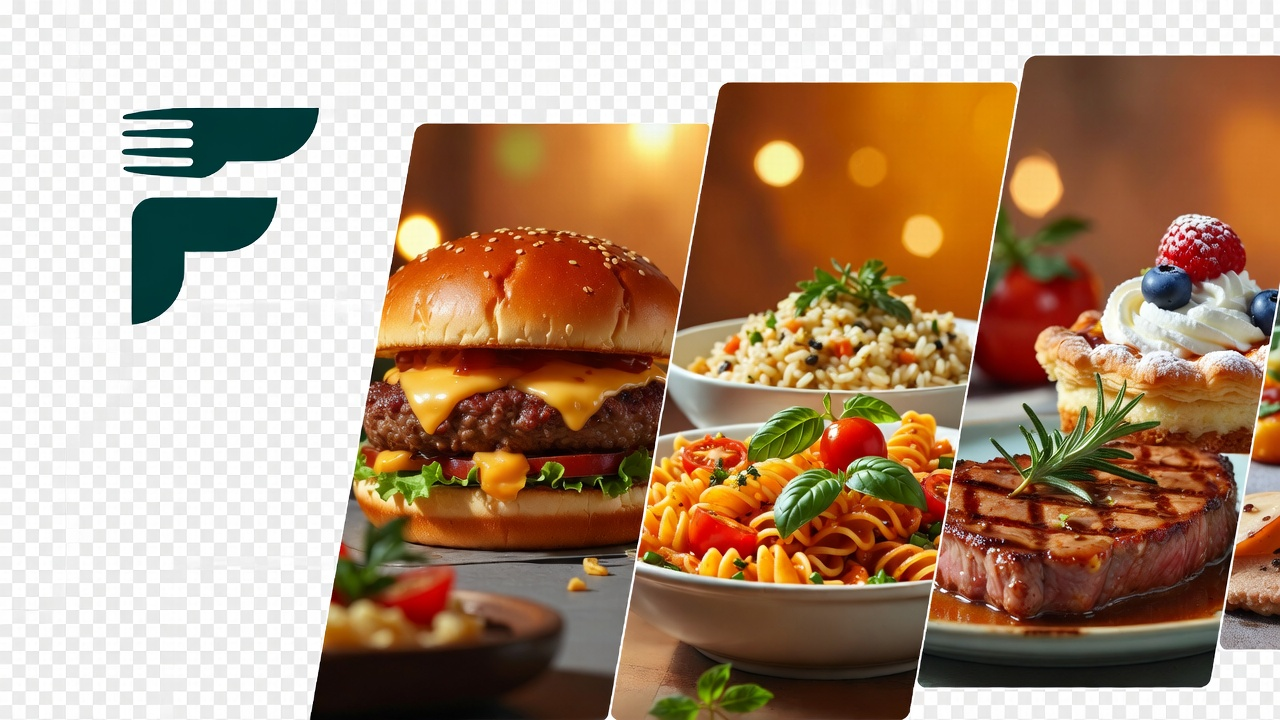
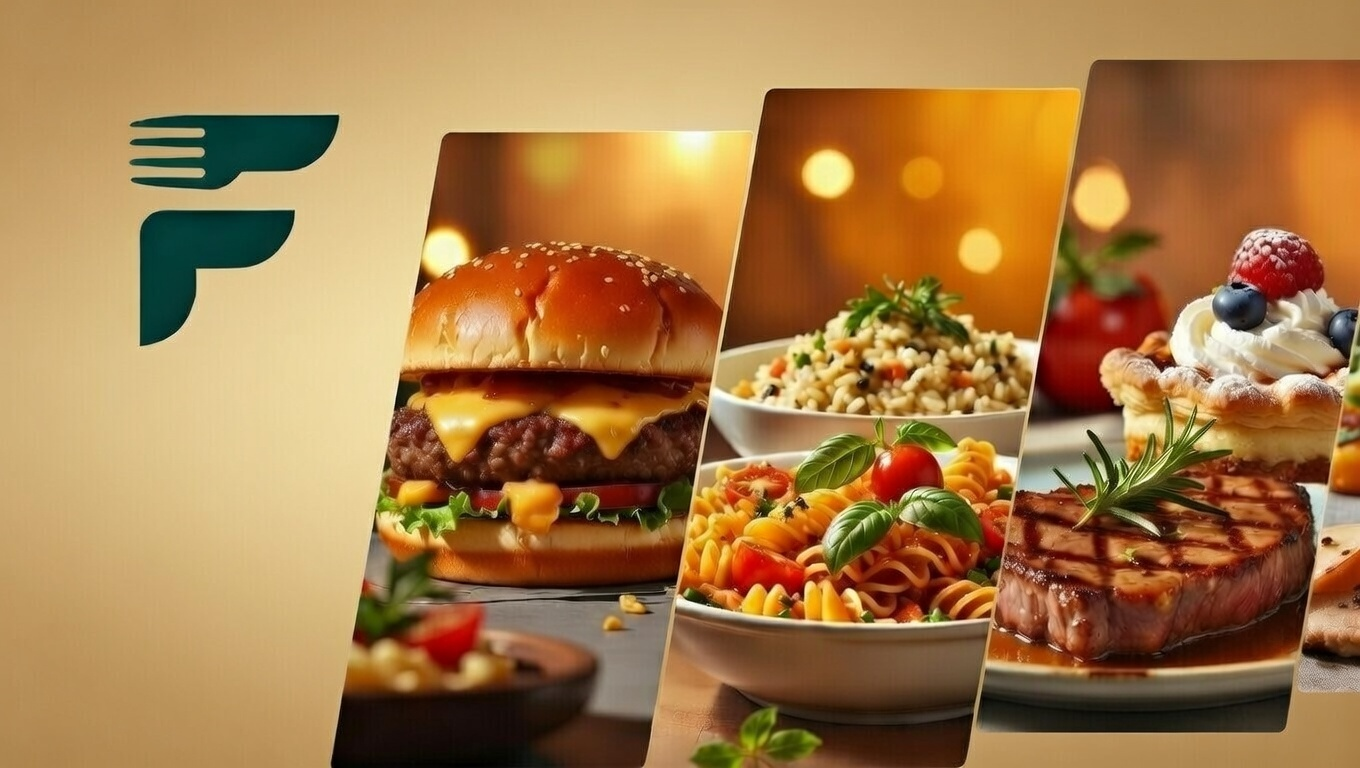
added hero section

diff --git a/components/Home/Hero.tsx b/components/Home/Hero.tsx
@@ -1,11 +1,77 @@
-import React from 'react';
+import Image from "next/image";
+import { Button } from "@/components/ui/button";
+import { ArrowRight, Star } from "lucide-react";
+import Link from "next/link";
+import hero from "@/assets/Image/hero.jpg"
+// 2
+export default function Hero() {
+  return (
+    <section className="relative min-h-[80vh] w-full flex items-center overflow-hidden mt-1">
+      {/* --- 1. THE BACKGROUND IMAGE --- */}
+      <div className="absolute inset-0 z-0">
+        <Image
+          src={hero}
+          alt="FoodHub Premium Meals"
+          fill
+          priority
+          className="object-cover object-right lg:object-center" 
+          // object-right ensures the food panels stay visible on small screens
+        />
+        {/* Dark overlay for mobile readability */}
+        <div className="absolute inset-0 bg-white/60 lg:bg-transparent lg:bg-gradient-to-r lg:from-white lg:via-white/70 lg:to-transparent" />
+      </div>
 
-const Hero = () => {
-    return (
-        <div>
-            
+      <div className="container relative z-10 mx-auto px-6">
+        <div className="max-w-2xl text-center lg:text-left space-y-8 animate-in fade-in slide-in-from-left-8 duration-1000">
+          
+          {/* Badge */}
+          <div className="inline-flex items-center gap-2 rounded-full bg-orange-600/10 px-4 py-1.5 text-sm font-bold text-orange-600 border border-orange-200 backdrop-blur-sm">
+            <Star className="h-4 w-4 fill-current mt-0.5" />
+            <span>Top Rated Food Delivery in Bangladesh</span>
+          </div>
+          
+          {/* Heading */}
+          <h1 className="text-5xl lg:text-8xl font-black tracking-tighter text-gray-900 leading-[1] drop-shadow-sm">
+            Satisfy Your <br />
+            <span className="text-orange-600">Cravings</span> <br /> 
+            in One Click.
+          </h1>
+          
+          {/* Description */}
+          <p className="max-w-md text-lg font-medium text-gray-700 leading-relaxed mx-auto lg:mx-0">
+            Experience the best meals from local providers. From juicy burgers to 
+            authentic pasta, we bring the kitchen to your doorstep.
+          </p>
+
+          {/* CTAs */}
+          <div className="flex flex-col sm:flex-row items-center gap-4 justify-center lg:justify-start">
+            <Link href="/meal">
+              <Button size="lg" className="h-16 px-10 rounded-full bg-orange-600 hover:bg-orange-700 text-xl font-black shadow-2xl shadow-orange-200 transition-all active:scale-95 group">
+                Order Now
+                <ArrowRight className="ml-2 h-6 w-6 transition-transform group-hover:translate-x-1" />
+              </Button>
+            </Link>
+            <Link href="/providers">
+              <Button variant="outline" size="lg" className="h-16 px-10 rounded-full border-2 bg-white/50 backdrop-blur-sm text-lg font-bold hover:bg-white transition-all">
+                Explore Kitchens
+              </Button>
+            </Link>
+          </div>
+
+          {/* Stats Overlay */}
+          <div className="pt-8 flex items-center justify-center lg:justify-start gap-10">
+            <div>
+              <p className="text-3xl font-black text-gray-900"></p>
+              <p className="text-sm font-bold text-gray-500 uppercase tracking-widest">Customers</p>
+            </div>
+            <div className="h-12 w-[2px] bg-gray-300" />
+            <div>
+              <p className="text-3xl font-black text-gray-900">50+</p>
+              <p className="text-sm font-bold text-gray-500 uppercase tracking-widest">Kitchens</p>
+            </div>
+          </div>
         </div>
-    );
-};
-
-export default Hero;
+      </div>
+    </section>
+  );
+}

diff --git a/app/(CommonLayout)/page.tsx b/app/(CommonLayout)/page.tsx
@@ -1,10 +1,20 @@
+import Hero from "@/components/Home/Hero";
 
 
-export default function Home() {
+export default function HomePage() {
   return (
-    <div className="flex min-h-screen items-center justify-center bg-zinc-50 font-sans dark:bg-black">
+    <div className="flex flex-col w-full">
+      {/* Section 1: Hero */}
+      <Hero />
       
-          
+      {/* Section 2: Categories (Coming Next) */}
+      {/* <Categories /> */}
+      
+      {/* Section 3: Trending (Coming Next) */}
+      {/* <Trending /> */}
+      
+      {/* Section 4: Why Us (Coming Next) */}
+      {/* <WhyUs /> */}
     </div>
   );
 }

diff --git a/app/(CommonLayout)/layout.tsx b/app/(CommonLayout)/layout.tsx
@@ -5,6 +5,7 @@ export default function CommonLayout({ children }: { children: React.ReactNode }
       {/* Global Navbar */}
       <Navbar />
       
+      
       {/* Main Content Area */}
       <main className="grow">
         {children}
